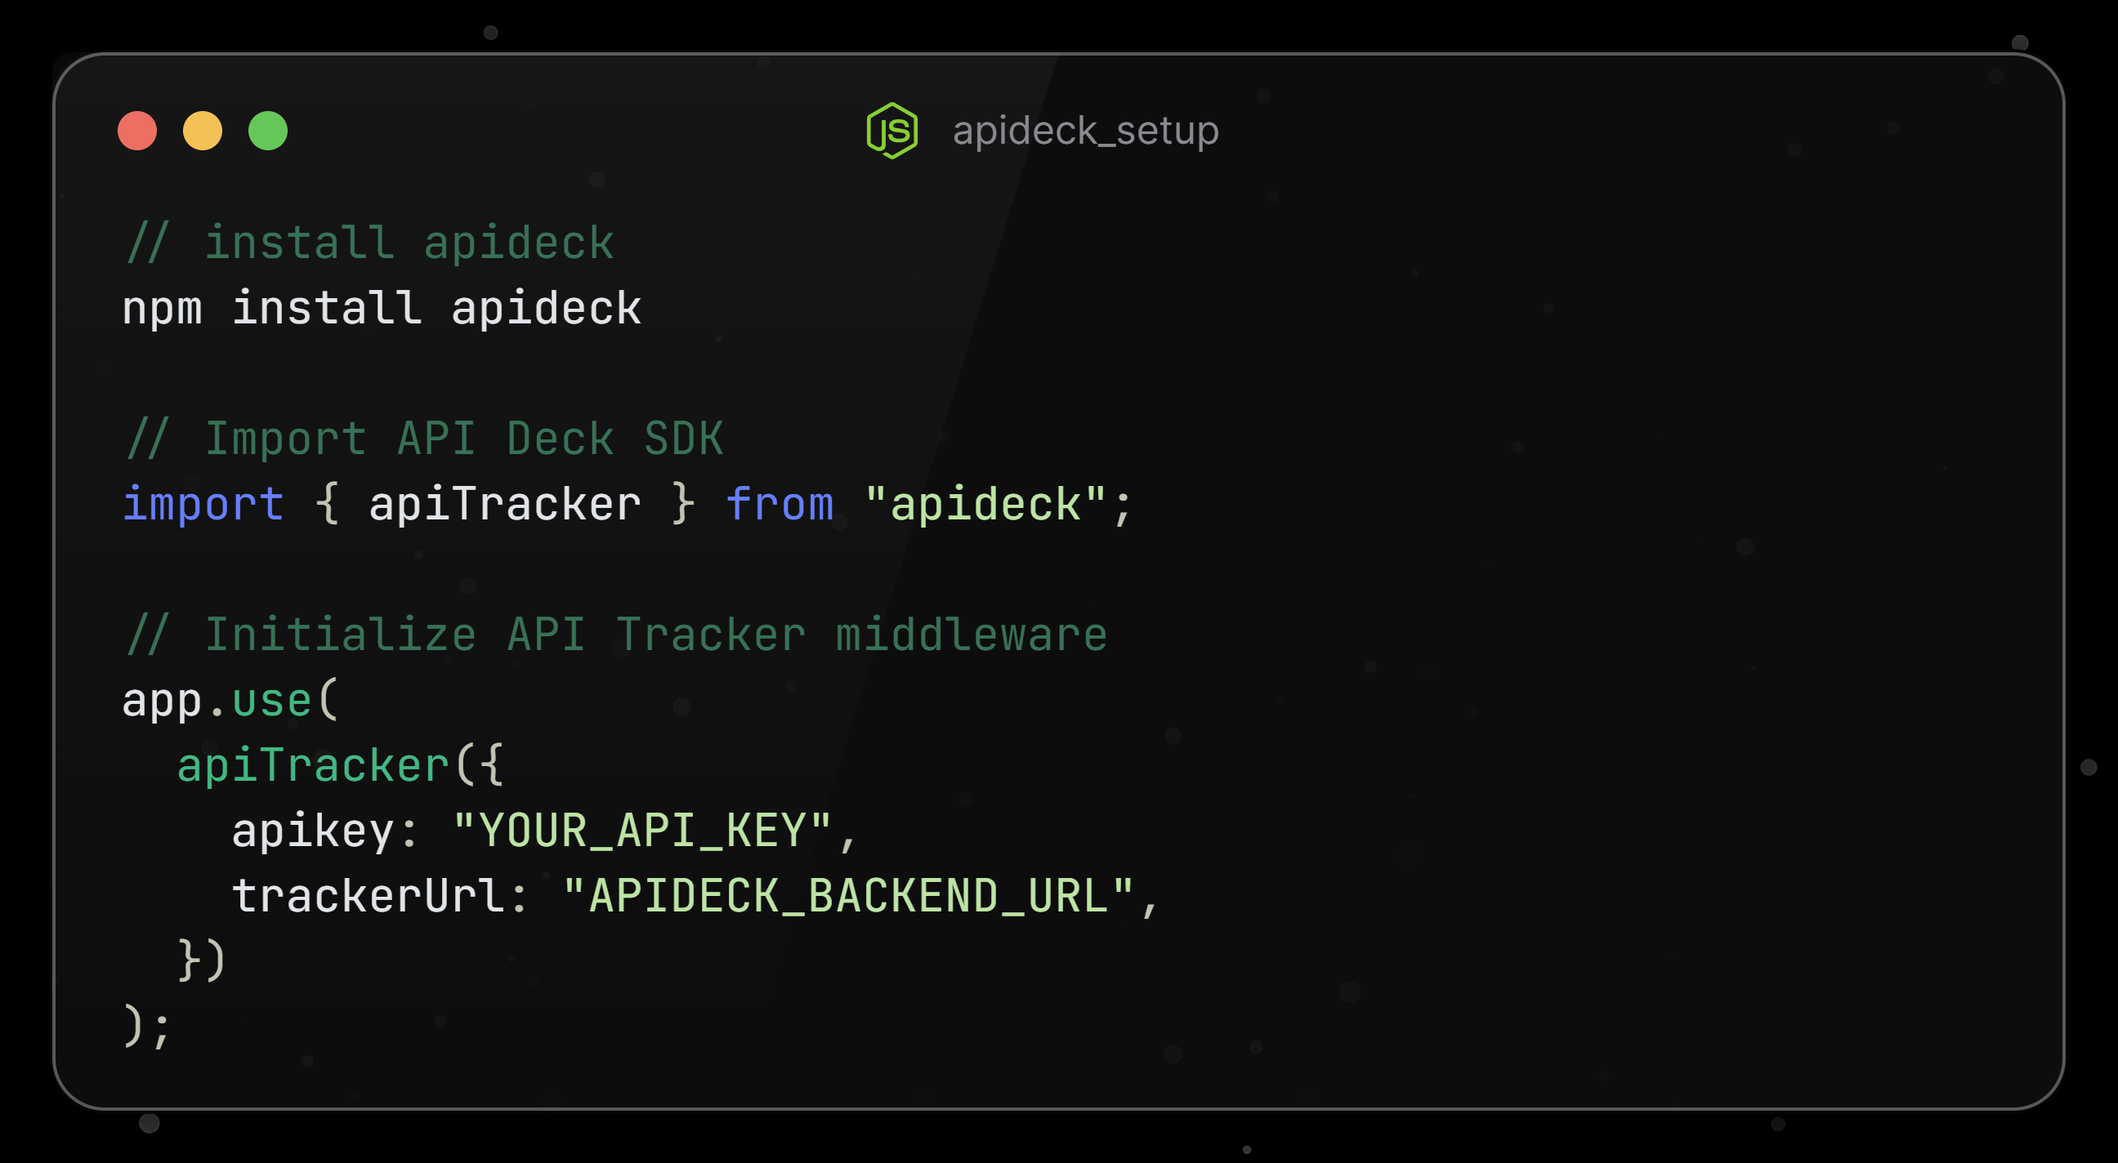
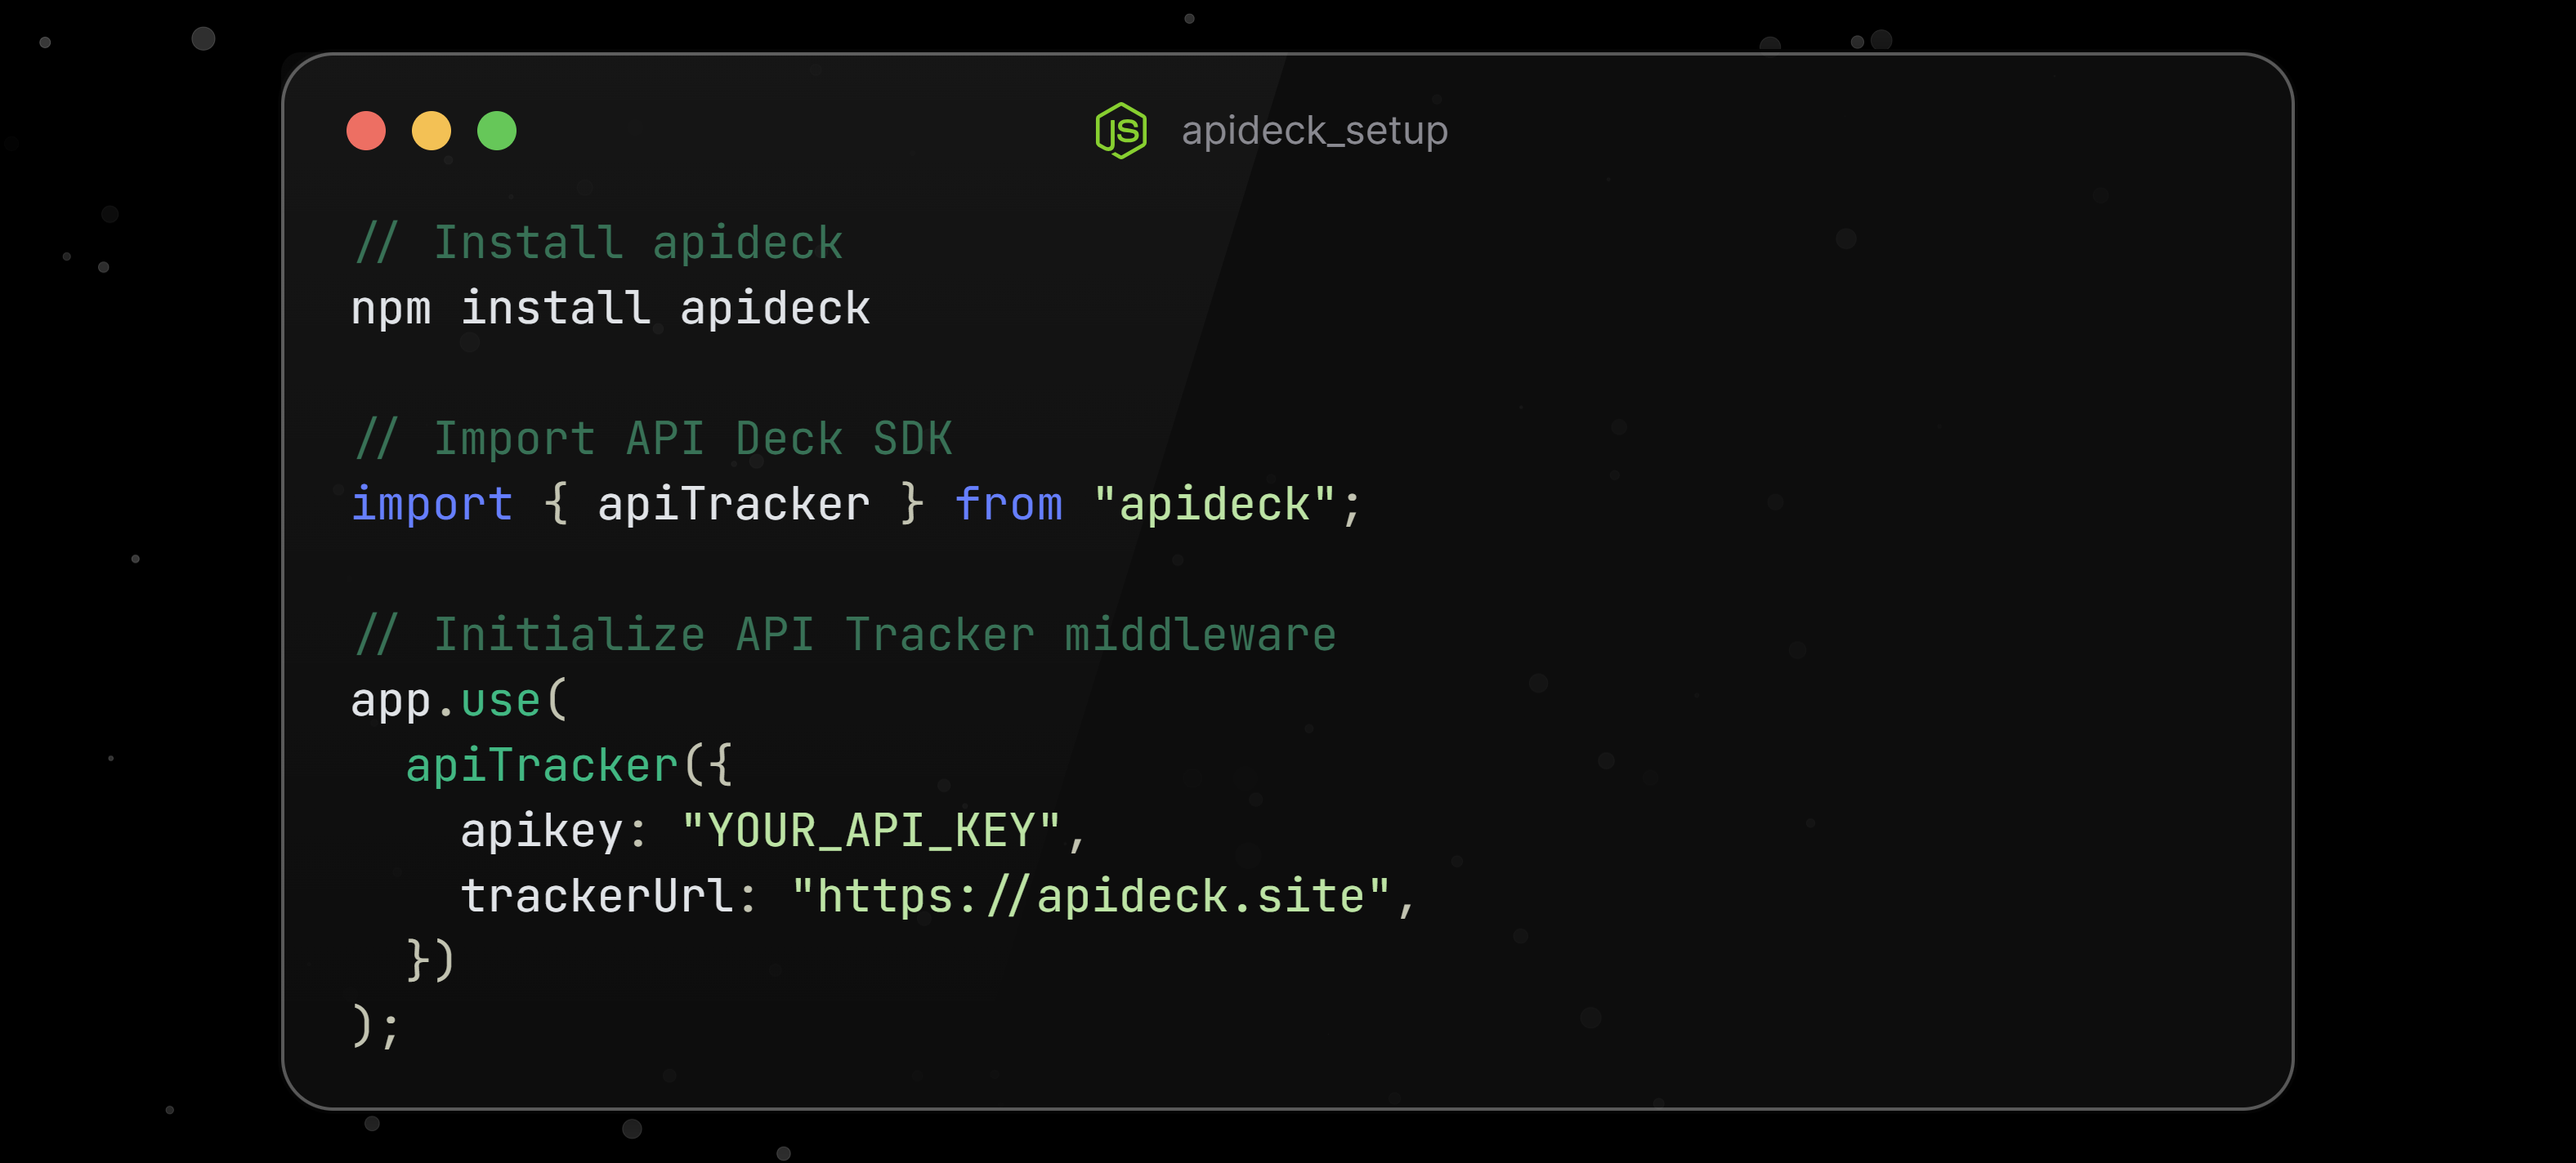
added the domain

diff --git a/src/app/contactus/page.jsx b/src/app/contactus/page.jsx
@@ -27,7 +27,7 @@ export default function ContactPage() {
         >
           <ArrowLeft className="w-5 h-5 text-slate-400 group-hover:text-orange-400 transition-colors" />
           <span className="text-slate-400 group-hover:text-white transition-colors">
-            Back to Home
+            Back 
           </span>
         </button>
       </div>

diff --git a/src/app/docs/page.tsx b/src/app/docs/page.tsx
@@ -338,7 +338,7 @@ import { apiTracker } from "apideck";
 app.use(
   apiTracker({
     apikey: "YOUR_API_KEY",                 
-    trackerUrl: "APIDECK_URL", 
+    trackerUrl: "https://apideck.site", 
   })
 );
 `}

diff --git a/apiDeck-sdk/README.md b/apiDeck-sdk/README.md
@@ -6,7 +6,12 @@
 
 **Lightweight API Usage Tracking SDK for Node.js**
 
-<p>     <a href="https://www.npmjs.com/package/apideck"><img src="https://img.shields.io/npm/v/apideck?style=flat-square&color=00BFFF" alt="npm version"/></a>     <a href="https://www.npmjs.com/package/apideck"><img src="https://img.shields.io/npm/dm/apideck?style=flat-square&color=1E90FF" alt="downloads"/></a>     <a href="https://nodejs.org"><img src="https://img.shields.io/badge/Node.js-Compatible-228B22?style=flat-square" alt="Node.js"/></a>     <a href="./LICENSE"><img src="https://img.shields.io/npm/l/apideck?style=flat-square&color=32CD32" alt="License"/></a>   </p>     <p>Track API requests, monitor response times, and analyze performance — effortlessly.</p>
+<p>     <a href="https://www.npmjs.com/package/apideck">
+<img src="https://img.shields.io/npm/v/apideck?style=flat-square&color=00BFFF" alt="npm version"/></a> 
+    <a href="https://www.npmjs.com/package/apideck"><img src="https://img.shields.io/npm/dm/apideck?style=flat-square&color=1E90FF" alt="downloads"/></a>  
+   <a href="https://nodejs.org"><img src="https://img.shields.io/badge/Node.js-Compatible-228B22?style=flat-square" alt="Node.js"/></a>    
+  <a href="./LICENSE"><img src="https://img.shields.io/npm/l/apideck?style=flat-square&color=32CD32" alt="License"/></a>
+     </p>     <p>Track API requests, monitor response times, and analyze performance — effortlessly.</p>
 
 </div>
 
@@ -34,7 +39,7 @@ npm install apideck
 
 To use ApiDeck, you need an account and an API key.
 
-- Go to [https://your-apideck-domain.com] and create an account.
+- Go to [https://apideck.site/] and create an account.
 
 - Log in to your dashboard. Your unique apikey will be automatically generated and displayed.
 
@@ -43,6 +48,7 @@ To use ApiDeck, you need an account and an API key.
 ## 🔧 Quick Start
 
 Choose the syntax for your project.
+
 ES Module(import)
 
 ```bash
@@ -54,7 +60,7 @@ const app = express();
 app.use(
   apiTracker({
     apikey: "YOUR_API_KEY",
-    trackerUrl: "APIDECK_URL"
+    trackerUrl: "https://apideck.site"
   })
 );
 ```
@@ -70,7 +76,7 @@ const app = express();
 app.use(
   apiTracker({
     apikey: "YOUR_API_KEY_FROM_SERVER",
-    trackerUrl: "YOUR_SERVER_URL"
+    trackerUrl: "https://apideck.site"
   })
 );
 ```
